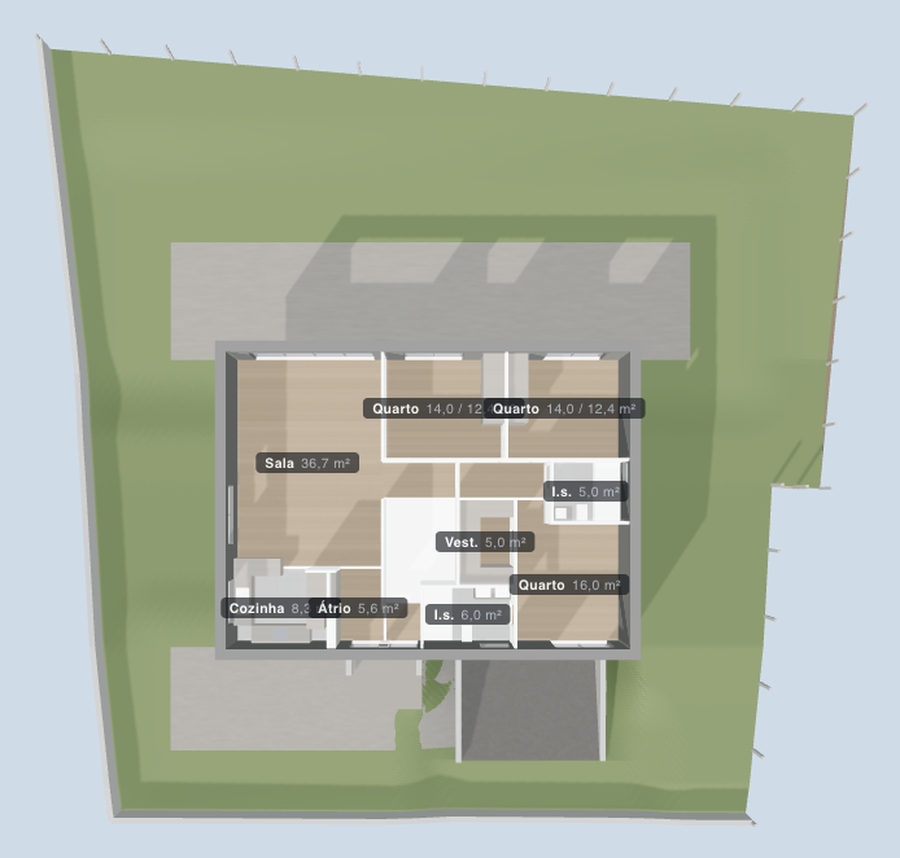
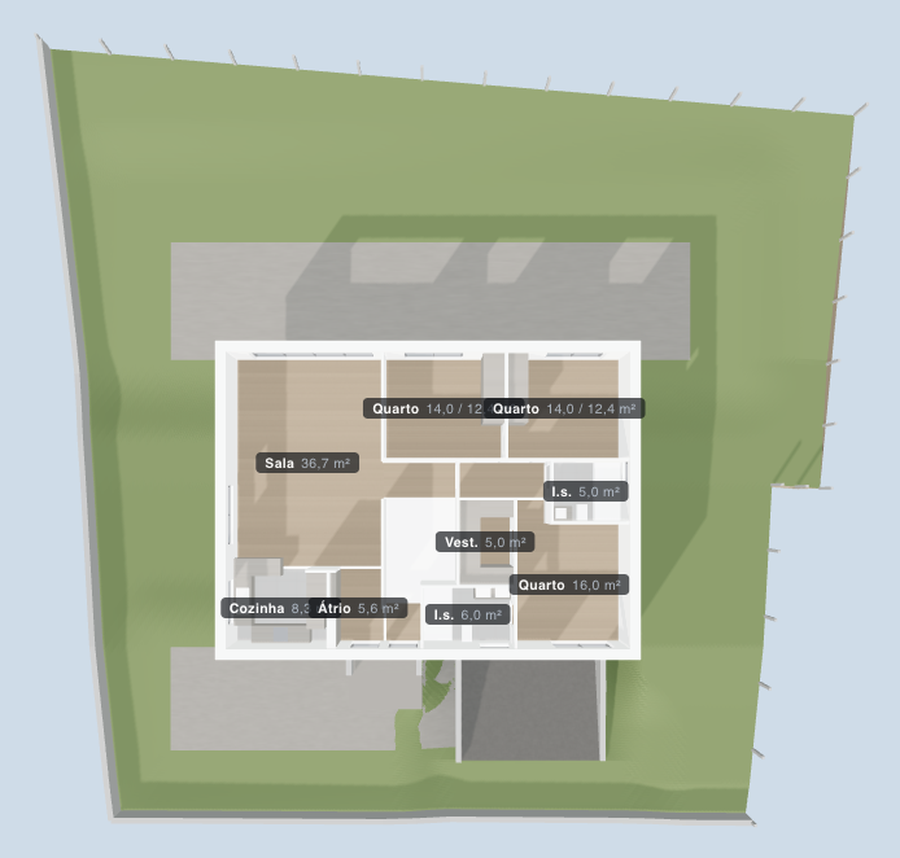
Make the interior read: two-sided walls, working stairs, tiled corners
Three things the model got wrong once you looked at it from inside:

- Exterior walls were rendered grey on both faces, so every room read as if it
  were outdoors. They now carry two materials — the render on the one face
  that points out of the building, plaster everywhere else, reveals included.
- The four exterior walls all ran their full length and overlapped in the
  corners, where the flank's white inner face and the front wall's grey outer
  face are coplanar and fought. The flanks now stop at the inner faces.
- Walk mode snapped to one of two fixed floor levels, which made the staircase
  impassable. It now raycasts the real geometry for the surface underfoot and
  for what is in the way, so stairs, terraces, the ramp and the furniture all
  behave without being described a second time. Entering walk mode from an
  orbit view starts you on the path in front of the door rather than dropping
  you wherever the orbit camera happened to be.

Adds ?cam= / ?at= for linking to an exact viewpoint, and ?labels= separate
from ?ui= so a clean still can still carry the room names.

Claude-Session: https://claude.ai/code/session_019xVJAk73kmvxS8tgZyQUWS

Changed region(s): [[0.2178, 0.3939, 0.7156, 0.7879]]

diff --git a/src/scene/viewer.ts b/src/scene/viewer.ts
@@ -27,6 +27,11 @@ export class Viewer {
   private lastFrame = performance.now()
   private readonly onFrame: Array<(dt: number) => void> = []
 
+  /** What the walk camera stands on and bumps into. */
+  private walkables: THREE.Object3D[] = []
+  private obstacles: THREE.Object3D[] = []
+  private readonly ray = new THREE.Raycaster()
+
   constructor(private readonly canvas: HTMLCanvasElement) {
     this.renderer = new THREE.WebGLRenderer({ canvas, antialias: true, powerPreference: 'high-performance' })
     this.renderer.setPixelRatio(Math.min(devicePixelRatio, 2))
@@ -108,12 +113,26 @@ export class Viewer {
     this.mode = mode
     this.controls.enabled = mode === 'orbit'
     if (mode === 'walk') {
-      this.walkPos.copy(this.camera.position)
-      this.walkPos.y = this.eyeHeightAt(this.walkPos.x, this.walkPos.z)
-      const dir = new THREE.Vector3()
-      this.camera.getWorldDirection(dir)
-      this.walkYaw = Math.atan2(-dir.x, -dir.z)
-      this.walkPitch = Math.asin(THREE.MathUtils.clamp(dir.y, -1, 1))
+      const near =
+        this.camera.position.x > -8 &&
+        this.camera.position.x < SIZE.width + 8 &&
+        this.camera.position.z > -8 &&
+        this.camera.position.z < SIZE.depth + 10 &&
+        this.camera.position.y < 6
+
+      if (near) {
+        this.walkPos.copy(this.camera.position)
+        const dir = new THREE.Vector3()
+        this.camera.getWorldDirection(dir)
+        this.walkYaw = Math.atan2(-dir.x, -dir.z)
+        this.walkPitch = Math.asin(THREE.MathUtils.clamp(dir.y, -1, 1))
+      } else {
+        // Coming in from an orbit view: start on the path in front of the entrance, facing it.
+        this.walkPos.set(5.5, 0, SIZE.depth + 4.5)
+        this.walkYaw = Math.PI
+        this.walkPitch = -0.05
+      }
+      this.walkPos.y = this.eyeHeightAt(this.walkPos.x, this.walkPos.z, this.walkPos.y + 2)
       this.canvas.requestPointerLock?.()
     } else {
       document.exitPointerLock?.()
@@ -129,16 +148,44 @@ export class Viewer {
   }
 
   /**
-   * Eye height for the walk camera. Inside the footprint you stand on whichever floor slab is
-   * below you; outside it you stand on the ground.
+   * Tell the walk camera what to stand on and what to bump into. Everything is found by
+   * raycasting the real geometry, so the stairs work as stairs and the terraces as terraces
+   * without any of it being described twice.
    */
-  private eyeHeightAt(x: number, z: number): number {
+  setWalkGeometry(walkables: THREE.Object3D[], obstacles: THREE.Object3D[]) {
+    this.walkables = walkables
+    this.obstacles = obstacles
+  }
+
+  private static readonly EYE = 1.68
+  private static readonly DOWN = new THREE.Vector3(0, -1, 0)
+
+  /**
+   * Eye height for the walk camera: cast down from a little above the head and stand on the
+   * first surface found. Falls back to the terrain when nothing is hit.
+   */
+  private eyeHeightAt(x: number, z: number, fromY: number): number {
+    const eye = Viewer.EYE
+    if (this.walkables.length) {
+      this.ray.set(new THREE.Vector3(x, fromY + 0.9, z), Viewer.DOWN)
+      this.ray.far = 6
+      const hit = this.ray.intersectObjects(this.walkables, true)[0]
+      if (hit) return hit.point.y + eye
+    }
     const inside = x > -0.2 && x < SIZE.width + 0.2 && z > -0.2 && z < SIZE.depth + 0.2
-    const eye = 1.68
     if (!inside) return groundAt(x, z) + eye
-    const current = this.walkPos.y - eye
-    // Snap to whichever slab we are nearest to, so stairs feel like stairs.
+    const current = fromY - eye
     return (current > LEVELS.groundFloor - 1.2 ? LEVELS.groundFloor : LEVELS.caveFloor) + eye
+  }
+
+  /** True if a step of `delta` from the current position would walk into something. */
+  private blocked(delta: THREE.Vector3): boolean {
+    if (!this.obstacles.length) return false
+    const dir = delta.clone().normalize()
+    // Chest height — low enough to catch balustrades, high enough to clear a tread.
+    this.ray.set(new THREE.Vector3(this.walkPos.x, this.walkPos.y - 0.5, this.walkPos.z), dir)
+    this.ray.far = delta.length() + 0.3
+    return this.ray.intersectObjects(this.obstacles, true).length > 0
   }
 
   private bindInput() {
@@ -171,10 +218,21 @@ export class Viewer {
     if (this.keys.has('KeyS') || this.keys.has('ArrowDown')) move.sub(forward)
     if (this.keys.has('KeyD') || this.keys.has('ArrowRight')) move.add(right)
     if (this.keys.has('KeyA') || this.keys.has('ArrowLeft')) move.sub(right)
-    if (move.lengthSq() > 0) this.walkPos.addScaledVector(move.normalize(), speed)
+    if (move.lengthSq() > 0) {
+      const step = move.normalize().multiplyScalar(speed)
+      // Slide along whatever is in the way rather than sticking to it.
+      if (!this.blocked(step)) {
+        this.walkPos.add(step)
+      } else {
+        const alongX = new THREE.Vector3(step.x, 0, 0)
+        const alongZ = new THREE.Vector3(0, 0, step.z)
+        if (alongX.lengthSq() > 1e-8 && !this.blocked(alongX)) this.walkPos.add(alongX)
+        else if (alongZ.lengthSq() > 1e-8 && !this.blocked(alongZ)) this.walkPos.add(alongZ)
+      }
+    }
 
-    const targetY = this.eyeHeightAt(this.walkPos.x, this.walkPos.z)
-    this.walkPos.y += (targetY - this.walkPos.y) * Math.min(1, dt * 9)
+    const targetY = this.eyeHeightAt(this.walkPos.x, this.walkPos.z, this.walkPos.y)
+    this.walkPos.y += (targetY - this.walkPos.y) * Math.min(1, dt * 12)
 
     this.camera.position.copy(this.walkPos)
     const dir = new THREE.Vector3(

diff --git a/src/scene/builder.ts b/src/scene/builder.ts
@@ -50,7 +50,7 @@ const box = (w: number, h: number, d: number) => new THREE.BoxGeometry(w, h, d)
 
 function mesh(
   geo: THREE.BufferGeometry,
-  mat: THREE.Material,
+  mat: THREE.Material | THREE.Material[],
   x: number,
   y: number,
   z: number,
@@ -74,7 +74,7 @@ function slab(
   thickness: number,
   base: number,
   top: number,
-  mat: THREE.Material,
+  mat: THREE.Material | THREE.Material[],
 ): THREE.Mesh | null {
   const len = to - from
   const h = top - base
@@ -89,6 +89,20 @@ function slab(
 // Walls
 // ─────────────────────────────────────────────────────────────────────────────
 
+/** Which BoxGeometry face points away from the building, for this exterior wall. */
+function outwardFaceIndex(wall: Wall): number {
+  if (wall.run === 'x') return wall.at < SIZE.depth / 2 ? 5 : 4 // −z is the rear
+  return wall.at < SIZE.width / 2 ? 1 : 0 // −x is the left flank
+}
+
+function exteriorWallMaterials(wall: Wall, lib: MaterialLibrary): THREE.Material[] {
+  const inside = lib.get('interiorWall')
+  const outside = lib.get('exteriorWall')
+  const mats: THREE.Material[] = [inside, inside, inside, inside, inside, inside]
+  mats[outwardFaceIndex(wall)] = outside
+  return mats
+}
+
 function buildWall(wall: Wall, lib: MaterialLibrary): THREE.Group {
   const group = new THREE.Group()
   group.name = wall.id
@@ -99,7 +113,10 @@ function buildWall(wall: Wall, lib: MaterialLibrary): THREE.Group {
   // Exterior walls run up behind the slab to the underside of the level above.
   const top = wall.top ?? (wall.exterior ? (wall.level === 'cave' ? LEVELS.groundFloor : LEVELS.roofSoffit) : ceil)
 
-  const mat = lib.get(wall.exterior ? 'exteriorWall' : 'interiorWall')
+  // An exterior wall is rendered outside and plastered inside, so it needs two materials.
+  // BoxGeometry groups run [+x, −x, +y, −y, +z, −z]; only the face pointing out of the
+  // building gets the render, and the reveals read as painted plaster, which is how they are.
+  const mat = wall.exterior ? exteriorWallMaterials(wall, lib) : lib.get('interiorWall')
   const openings = [...(wall.openings ?? [])].sort((a, b) => a.from - b.from)
 
   let cursor = wall.from

diff --git a/src/model/house.ts b/src/model/house.ts
@@ -164,6 +164,8 @@ const caveDoor = (from: number, to: number, label?: string): Opening => ({
 
 export const GROUND_WALLS: Wall[] = [
   // ── Exterior shell ────────────────────────────────────────────────────────
+  // The rear and front walls run the full width; the flanks stop at their inner faces, so the
+  // four walls tile the shell rather than overlapping (and fighting) in the corners.
   {
     id: 'g-rear',
     level: 'ground',
@@ -202,8 +204,8 @@ export const GROUND_WALLS: Wall[] = [
     level: 'ground',
     run: 'y',
     at: 0.175,
-    from: 0,
-    to: SIZE.depth,
+    from: SIZE.wallExt,
+    to: SIZE.depth - SIZE.wallExt,
     thickness: SIZE.wallExt,
     exterior: true,
     openings: [window_(4.751, 6.751, 'Sala'), window_(7.951, 9.451, 'Cozinha')],
@@ -213,8 +215,8 @@ export const GROUND_WALLS: Wall[] = [
     level: 'ground',
     run: 'y',
     at: SIZE.width - 0.175,
-    from: 0,
-    to: SIZE.depth,
+    from: SIZE.wallExt,
+    to: SIZE.depth - SIZE.wallExt,
     thickness: SIZE.wallExt,
     exterior: true,
     openings: [window_(3.95, 4.7, 'I.s.')],
@@ -331,8 +333,8 @@ export const CAVE_WALLS: Wall[] = [
     level: 'cave',
     run: 'y',
     at: 0.175,
-    from: 0,
-    to: SIZE.depth,
+    from: SIZE.wallExt,
+    to: SIZE.depth - SIZE.wallExt,
     thickness: SIZE.wallExt,
     exterior: true,
     // The two left-hand windows share a head but not a sill: the elevation draws the wider
@@ -347,8 +349,8 @@ export const CAVE_WALLS: Wall[] = [
     level: 'cave',
     run: 'y',
     at: SIZE.width - 0.175,
-    from: 0,
-    to: SIZE.depth,
+    from: SIZE.wallExt,
+    to: SIZE.depth - SIZE.wallExt,
     thickness: SIZE.wallExt,
     exterior: true,
   },

diff --git a/src/main.ts b/src/main.ts
@@ -107,6 +107,13 @@ function lookDownOn(level: Level) {
 // Walk mode
 // ─────────────────────────────────────────────────────────────────────────────
 
+// Floors, slabs, stairs and the ground are what you stand on; walls and glazing are what you
+// bump into. Both are raycast against the real geometry, so nothing is described twice.
+viewer.setWalkGeometry(
+  [parts.cave, parts.ground, parts.slabOverCave, parts.stairs, parts.site],
+  [parts.cave, parts.ground, parts.glazing],
+)
+
 const walkBtn = $<HTMLButtonElement>('#walk')
 const hud = $('#hud')
 
@@ -313,13 +320,24 @@ if (params.get('roof') === '0') {
 
 applyVisibility()
 
+// `?cam=x,y,z&at=x,y,z` places the camera exactly, for linking to a specific view.
+const camParam = params.get('cam')?.split(',').map(Number)
+const atParam = params.get('at')?.split(',').map(Number)
+if (camParam?.length === 3 && camParam.every(Number.isFinite)) {
+  viewer.camera.position.set(camParam[0], camParam[1], camParam[2])
+  if (atParam?.length === 3 && atParam.every(Number.isFinite)) {
+    viewer.controls.target.set(atParam[0], atParam[1], atParam[2])
+  }
+  viewer.controls.update()
+}
+
 const wantedView = params.get('view')
-if (wantedView && VIEWS[wantedView]) {
+if (!camParam && wantedView && VIEWS[wantedView]) {
   const [pos, target] = VIEWS[wantedView]
   viewer.camera.position.copy(pos)
   viewer.controls.target.copy(target)
   viewer.controls.update()
-} else if (wantedFloor === 'cave' || wantedFloor === 'ground') {
+} else if (!camParam && (wantedFloor === 'cave' || wantedFloor === 'ground')) {
   lookDownOn(wantedFloor)
 }
 

diff --git a/README.md b/README.md
@@ -16,6 +16,7 @@ and published as a static site.
 ## What it does
 
 - **Walk around it.** Orbit the model, or drop into a first-person walkthrough and go inside.
+  The walker raycasts the real geometry, so the stairs work as stairs and the walls stop you.
 - **Peel it apart.** Show the basement, the ground floor, or both; hide the roof; hide the site.
 - **Move the sun.** Azimuth and altitude sliders, with real shadows.
 - **Try finishes.** Switch the whole house between material schemes — the seam that the
@@ -26,6 +27,10 @@ and published as a static site.
 Pick a floor and the roof and everything above it peels away:
 
 ![Ground floor with the roof off](docs/plan.png)
+
+…or walk in. The living room's rear wall is a 4.15 m sliding screen running floor to lintel:
+
+![Inside the living room](docs/interior.png)
 
 ## The model is data, not a mesh
 
@@ -93,6 +98,7 @@ The viewer keeps its state in the URL, so any view is a link you can send someon
 | `sun` | `azimuth,altitude` in degrees | e.g. `330,38` |
 | `ui` | `0` | hide the chrome, for embedding |
 | `labels` | `0` | hide the room names |
+| `cam` / `at` | `x,y,z` | place the camera and its target exactly |
 
 ```
 https://tallnato.github.io/myhouse/?view=topo&floor=cave&roof=0
